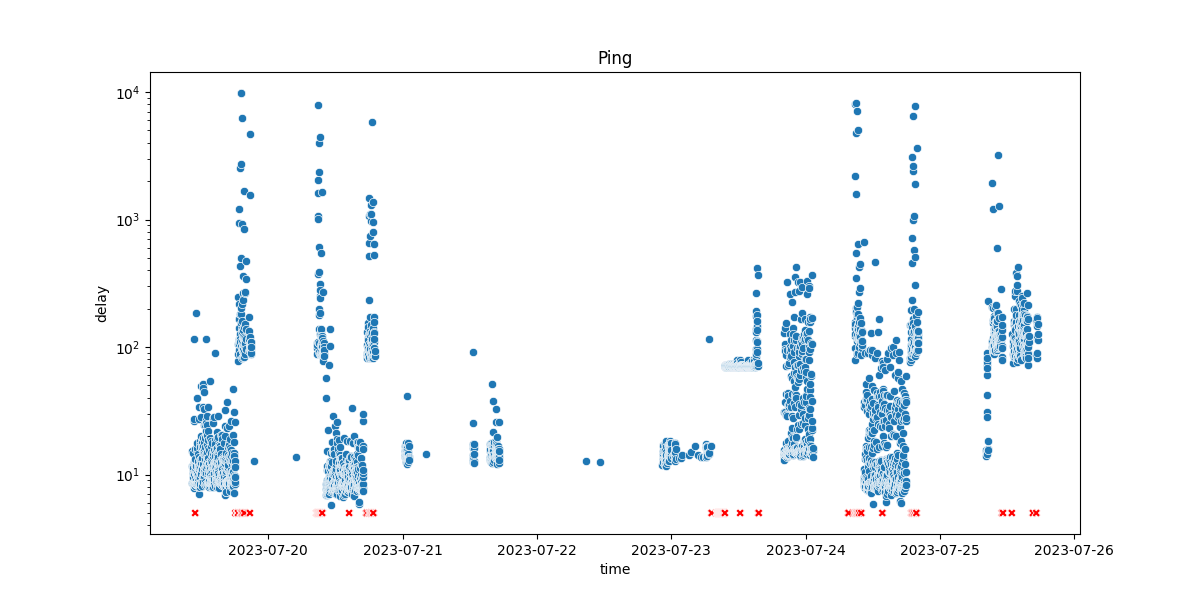
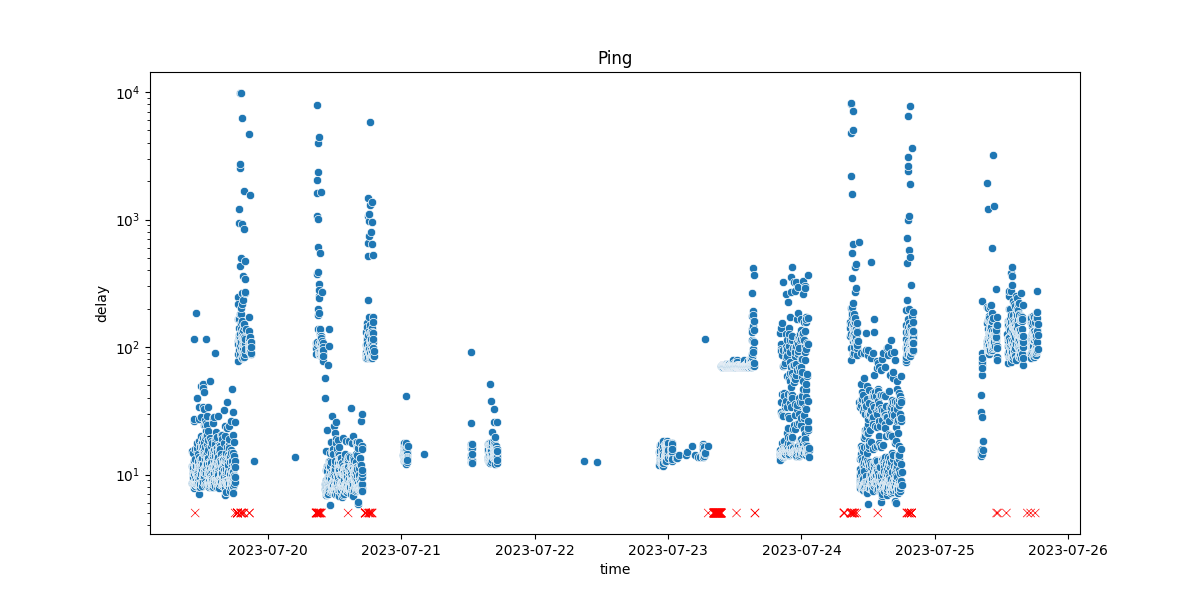
analysis formating

diff --git a/analysis.py b/analysis.py
@@ -1,6 +1,6 @@
-import pandas as pd
-import numpy as np
 import matplotlib.pyplot as plt
+import numpy as np
+import pandas as pd
 import seaborn as sns
 
 
@@ -8,22 +8,24 @@ def read_log(file_name):
     """
     read the data
     """
-    with open('pinger.log', 'r') as f:
+    with open(file_name, "r") as f:
         logf = f.readlines()
 
-    data_lines = [(logf[i-1], logf[i+1])
-                  for i, l in enumerate(logf)
-                  if l[:4] == 'PING']
+    data_lines = [
+        (logf[i - 1], logf[i + 1])
+        for i, l in enumerate(logf)
+        if l[:4] == "PING"
+    ]
 
     def clean_delay(d):
-        if d == '\n':
+        if d == "\n":
             return np.inf
         else:
             return float(d.split()[-2][5:])
 
     data_lines = [(t[:-1], clean_delay(d)) for t, d in data_lines]
 
-    df = pd.DataFrame(data_lines, columns=['time', 'delay'])
+    df = pd.DataFrame(data_lines, columns=["time", "delay"])
 
     return df
 
@@ -35,36 +37,43 @@ def fix_times(df):
     number_of_bad_times = 0
 
     for i, row in df.iterrows():
-        temp = df['time'].iloc[i]
+        temp = df["time"].iloc[i]
         try:
-            pd.to_datetime(temp, dayfirst=True,
-                           format="%m/%d/%y-%H:%M:%S")
+            pd.to_datetime(temp, dayfirst=True, format="%m/%d/%y-%H:%M:%S")
         except ValueError:
             number_of_bad_times += 1
-            df.loc[i, 'time'] = pd.to_datetime(0)
+            df.loc[i, "time"] = pd.to_datetime(0)
 
-    df['time'] = pd.to_datetime(df['time'],
-                                dayfirst=True, format="%m/%d/%y-%H:%M:%S")
+    df["time"] = pd.to_datetime(
+        df["time"], dayfirst=True, format="%m/%d/%y-%H:%M:%S"
+    )
 
-    df = df[df['time'] != pd.to_datetime(0)]
+    df = df[df["time"] != pd.to_datetime(0)]
 
     return df, number_of_bad_times
 
 
 def plot_log_to_file(df):
     plt.figure(figsize=(12, 6))
-    g = sns.scatterplot(data=df[df['delay'] != np.inf], x='time', y='delay')
-    sns.scatterplot(data=df[df['delay'] == np.inf], x='time', y=5,
-                    style="delay", markers=['X'], hue='delay',
-                    palette=['red'], ax=g)
-    g.set(yscale='log')
-    g.set(title='Ping')
-    plt.legend([],[], frameon=False)
-    plt.savefig('ping.png')
+    g = sns.scatterplot(data=df[df["delay"] != np.inf], x="time", y="delay")
+    sns.scatterplot(
+        data=df[df["delay"] == np.inf],
+        x="time",
+        y=5,
+        style="delay",
+        markers=["x"],
+        hue="delay",
+        palette=["red"],
+        ax=g,
+    )
+    g.set(yscale="log")
+    g.set(title="Ping")
+    plt.legend([], [], frameon=False)
+    plt.savefig("ping.png")
 
 
 if __name__ == "__main__":
-    df = read_log('pinger.log')
+    df = read_log("pinger.log")
     df, bad_times = fix_times(df)
     print(f"Number of bad times: {bad_times}")
     # write data to csv file
